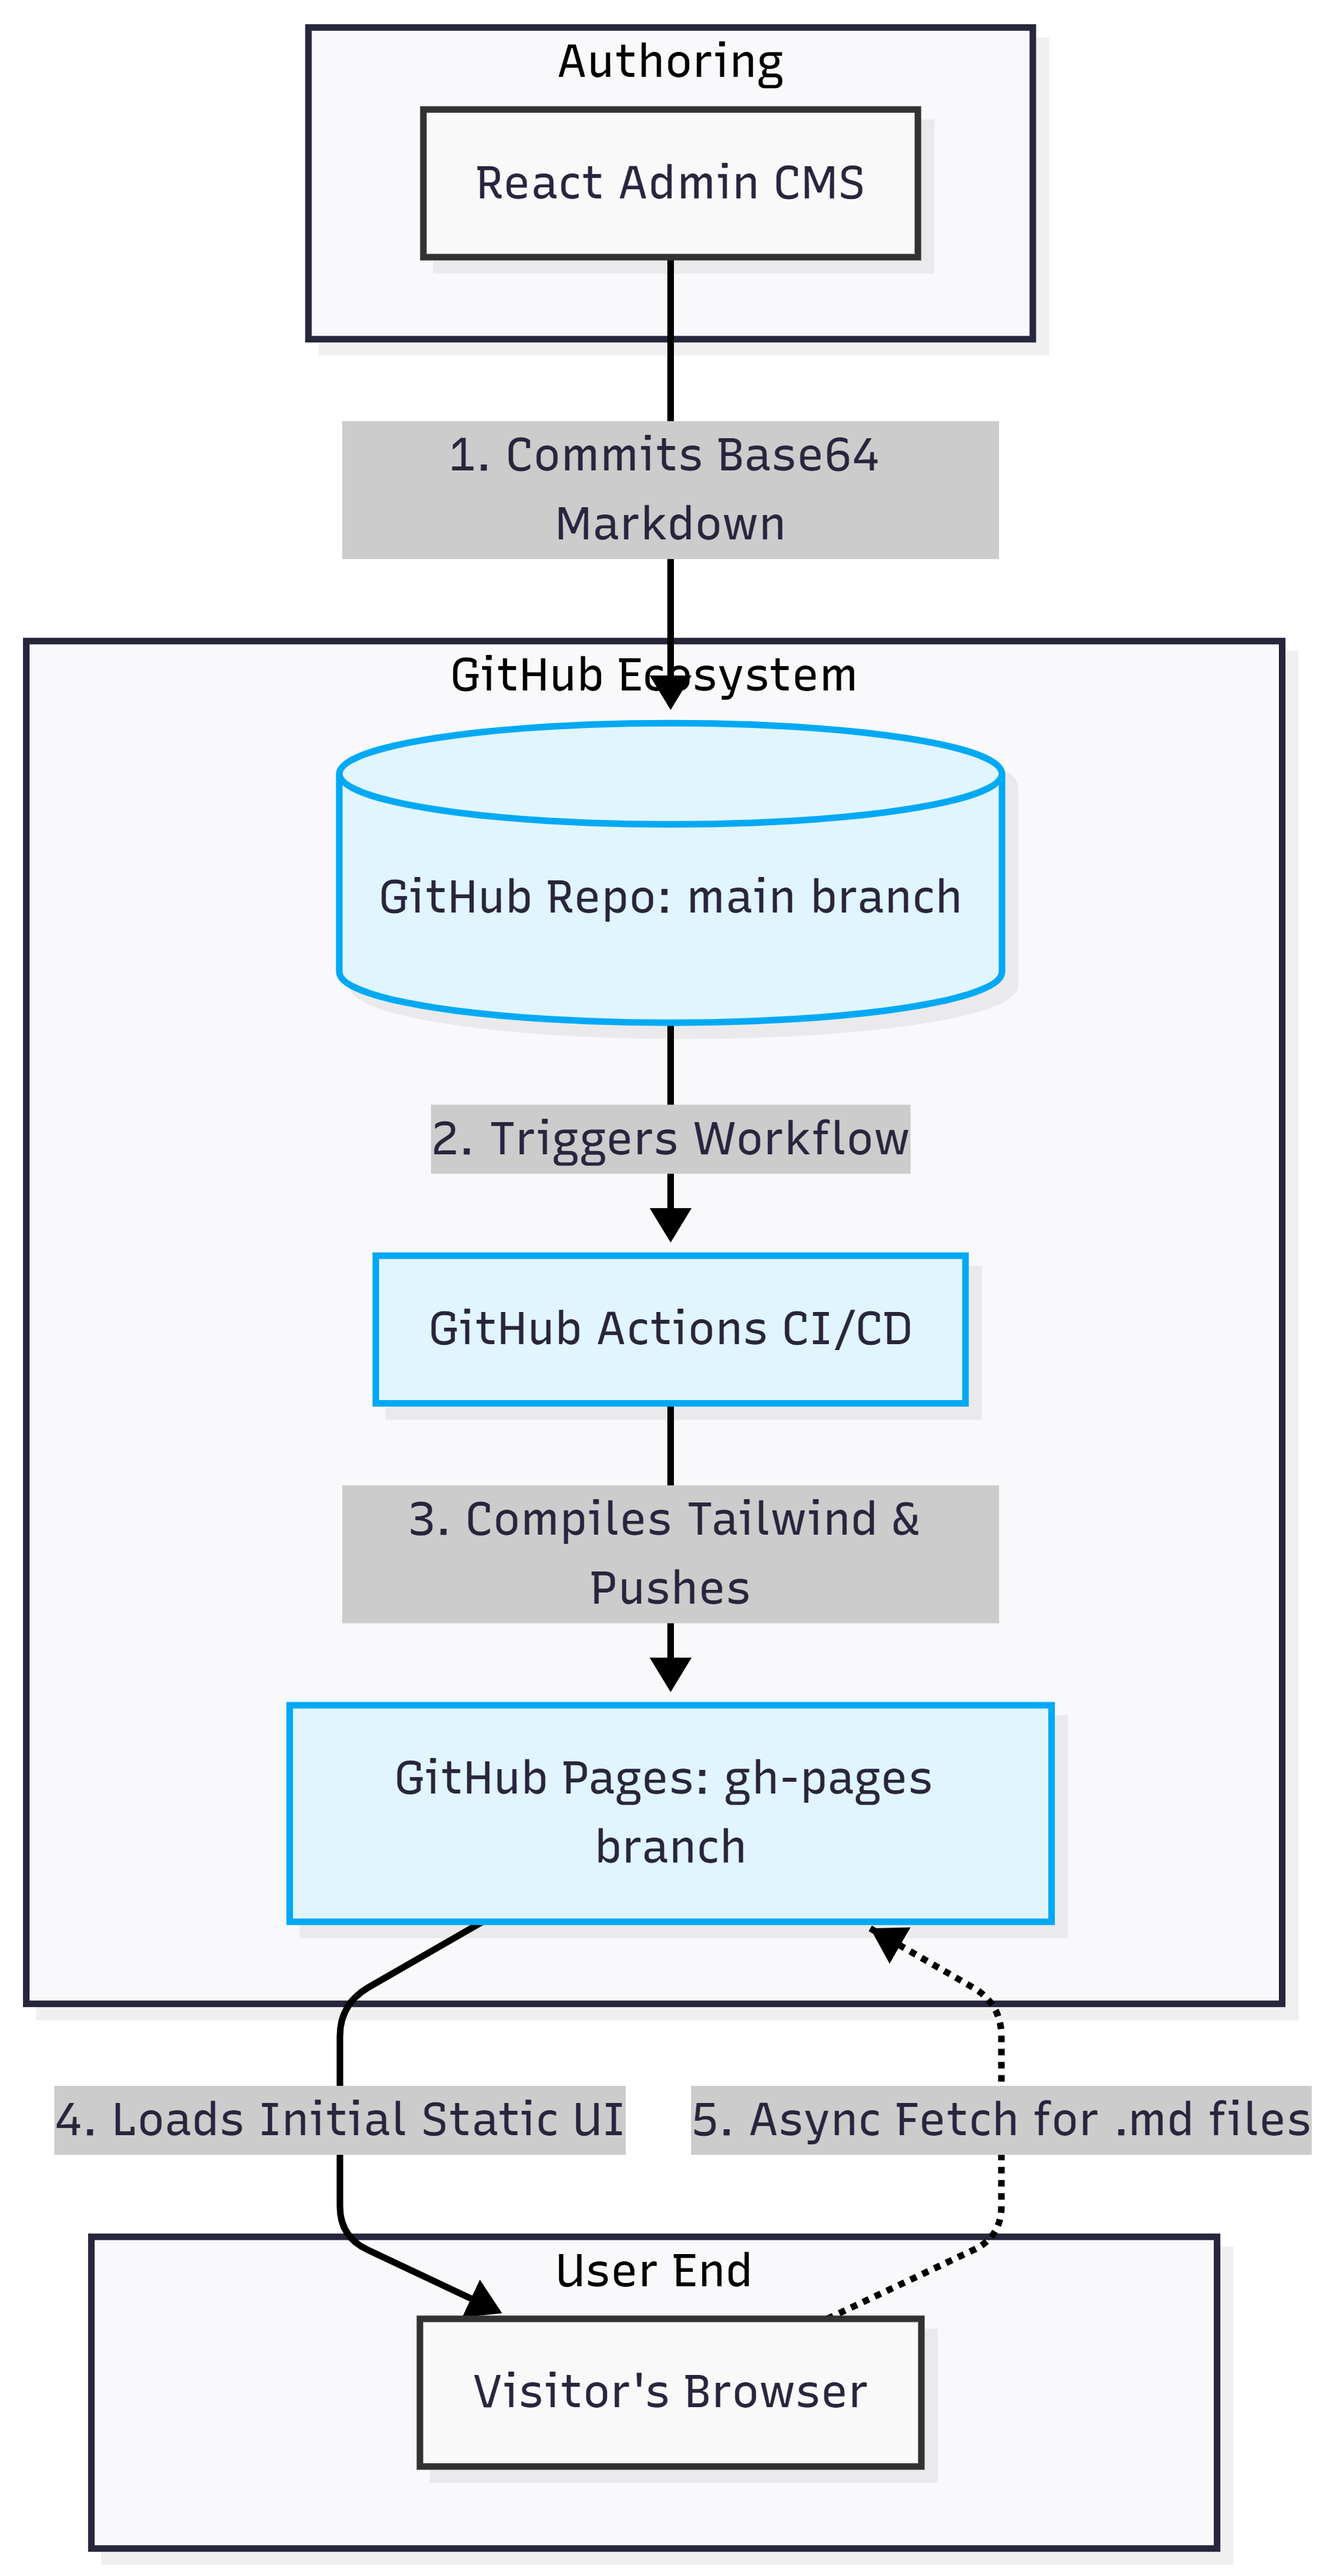
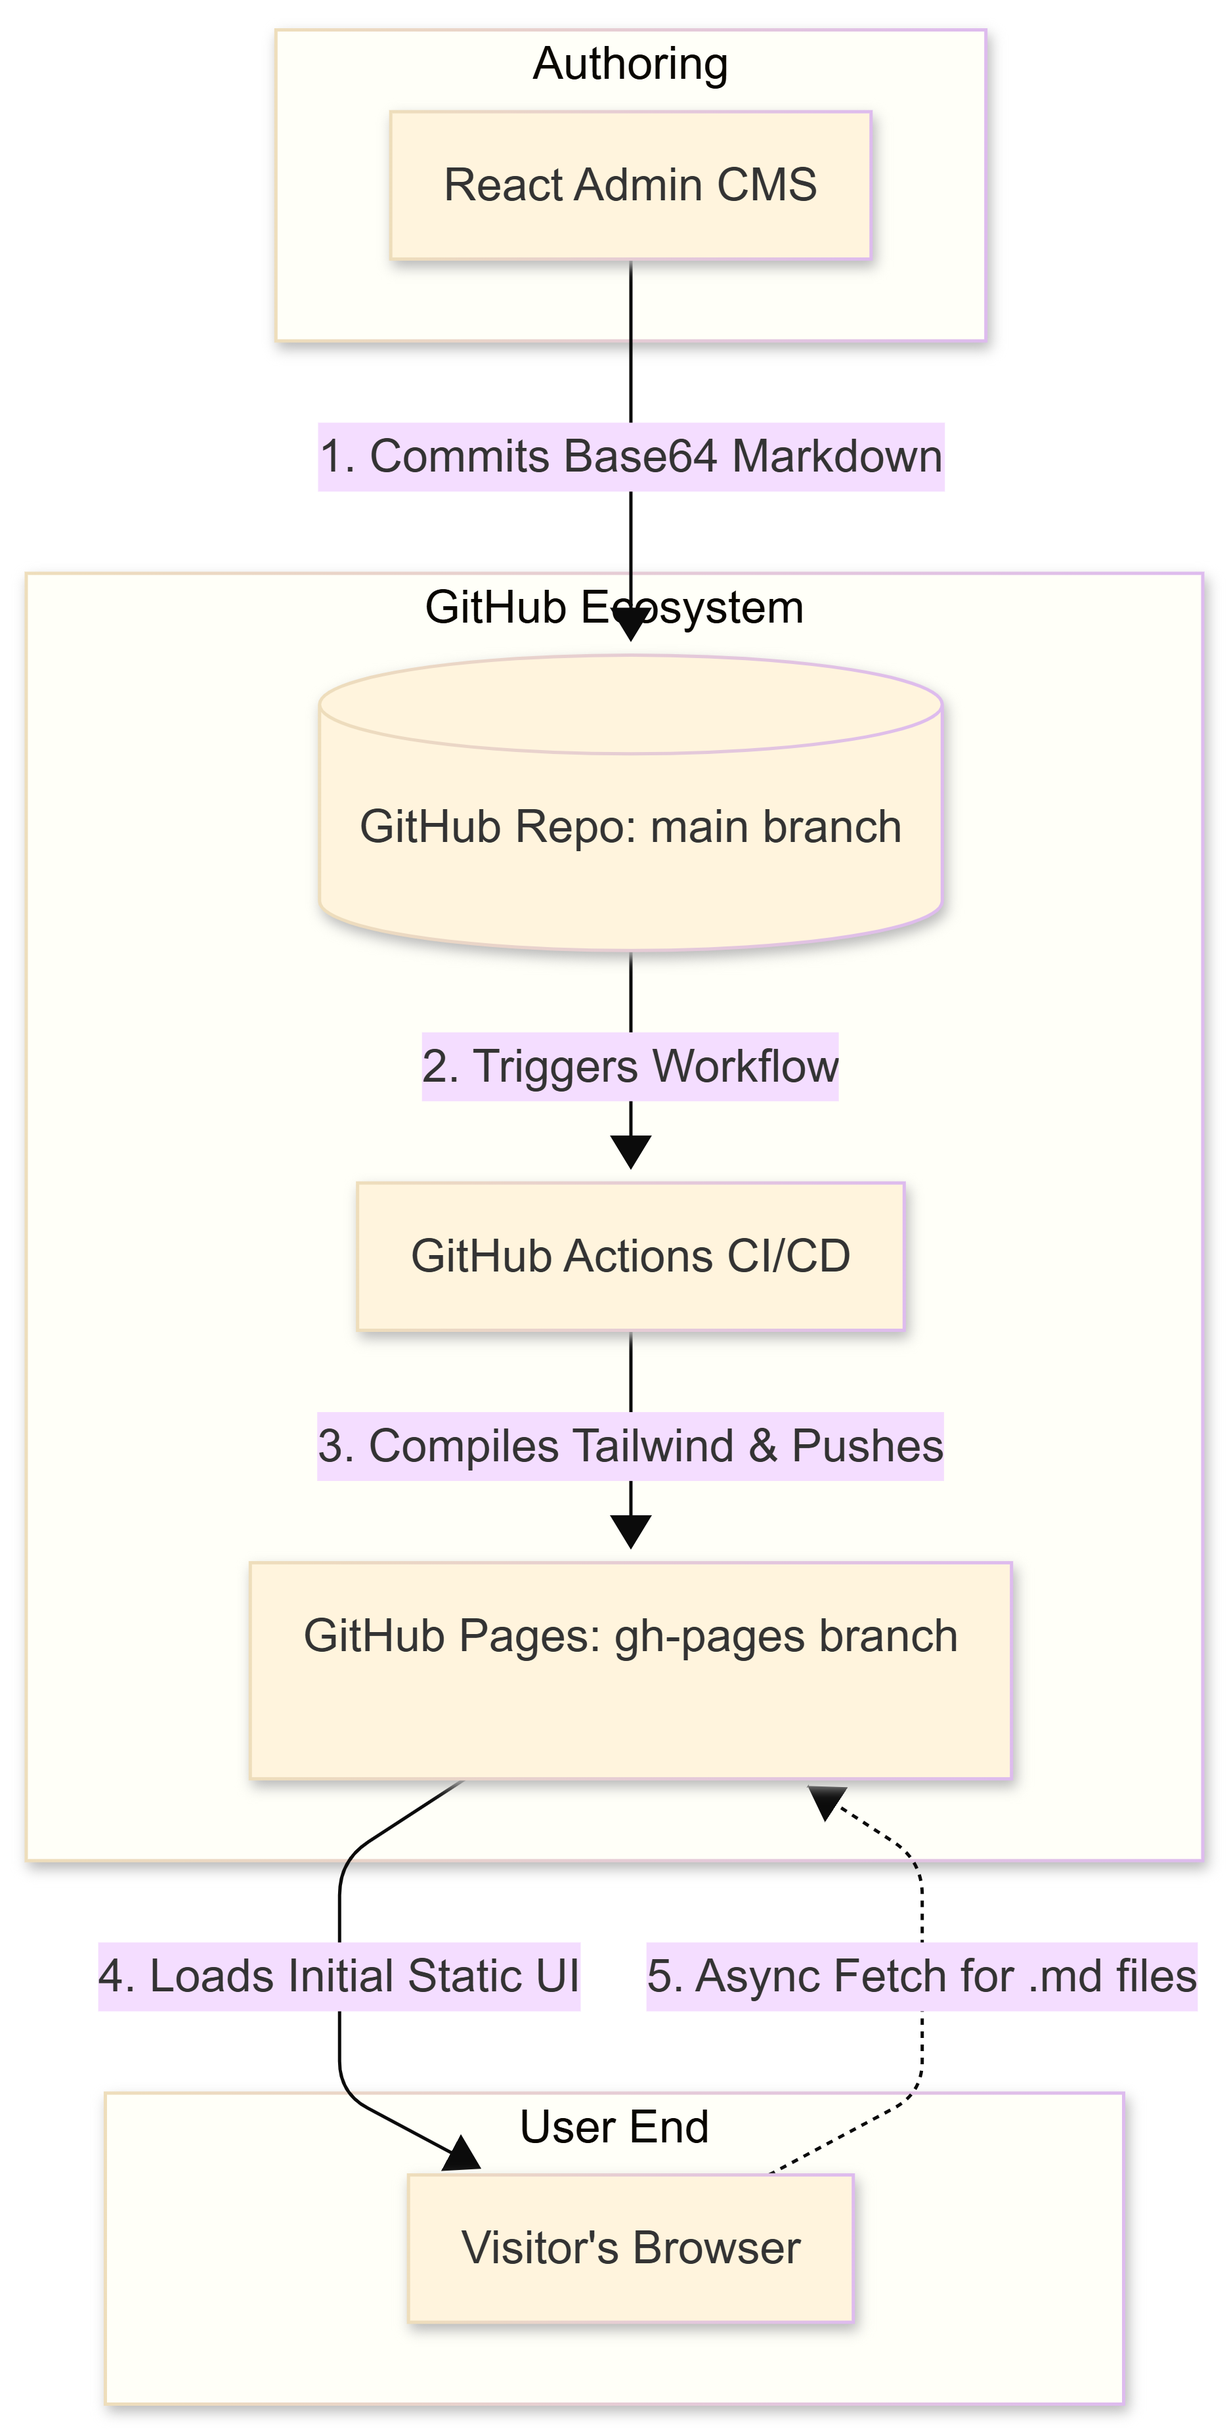
new updated

diff --git a/portfolio_blogs-21-meta-engineering.md b/portfolio_blogs-21-meta-engineering.md
@@ -34,17 +34,13 @@ If you paste an image into a dummy GitHub Issue, GitHub uploads it to their own 
 
 But as an engineer, this felt wrong. It is an exploit, not an architecture. Relying on an undocumented loophole is a severe DevOps anti-pattern. Eventually, GitHub is going to fix this, patch the exploit, or periodically clear out orphaned assets from Issues. If that happens, every single image on my portfolio would instantly break. I needed a legitimate, stable external storage solution.
 
-## Failure 4: The Google Drive Hotlink Block
+## Failure 4: The Google Drive Scroll Trap
 
-I pivoted to Google Drive. It was free, decoupled from my code, and legitimate. I uploaded my assets and generated direct download links using the `uc?export=view` format. 
+I pivoted to Google Drive. It was free, completely decoupled from my code, and legitimate. Because Google blocks hotlinking for standard Markdown images, I generated embed links and injected raw HTML `<iframe>` tags into my posts.
 
-But Google aggressively blocks hotlinking to prevent people from using Drive as a free Content Delivery Network. The browser threw CORS (Cross-Origin Resource Sharing) and permission errors. 
+But this created a terrible User Experience (UX). Because the iframe is basically a window to another website, it captured the user's mouse wheel. If a user was scrolling down the blog post and their cursor happened to cross the image, the blog would stop scrolling, and the Google Drive iframe would intercept the scroll to zoom into the image. The user had to consciously move their mouse out of the image box just to continue reading.
 
-**The Final Solution:** I had to pivot to an iframe embed architecture. Instead of standard Markdown image tags, I injected raw HTML into the Markdown using Google's official `/preview` endpoint, wrapped in Tailwind classes for responsiveness:
-```html
-<iframe src="[https://drive.google.com/file/d/YOUR_FILE_ID/preview](https://drive.google.com/file/d/YOUR_FILE_ID/preview)" className="w-full aspect-video rounded-xl shadow-lg" allow="autoplay"></iframe>
-```
-This solved everything. It bypassed the hotlink blocks, allowed seamless media streaming, and achieved zero repository bloat without relying on fragile exploits.
+**The Final Solution:** I ditched Google Drive entirely. I created a secondary, dedicated GitHub repository called `portfoliodata` specifically to act as a media CDN. By uploading images there and using the `raw.githubusercontent.com` URLs, I get clean, standard Markdown images that render perfectly, don't trap the scroll wheel, and keep my main codebase completely free of media bloat.
 
 ## Failure 5: The URL Slug Nightmare
 
@@ -58,4 +54,4 @@ URL parsers hate colons, nested quotation marks, and special characters. My auto
 
 You rarely get the architecture right on the very first commit. Building this custom GitOps CMS forced me to confront edge cases in build tools, browser caching, and REST API limitations. 
 
-The final product is my portfolio costing me nothing to keep it up and can later be easily deployed on the actual devops/cloud infrastructure very easily which we call migration and upgrad
+The final product isn't just a portfolio—it is a battle-tested infrastructure.

diff --git a/portfolio_blogs-6-interactive-ui.md b/portfolio_blogs-6-interactive-ui.md
@@ -16,7 +16,7 @@ In a framework like React, this is a trivial state management task. But in our [
 
 Instead of writing repetitive code for every single card, I treated the UI components like modular infrastructure. I wrote a single, reusable JavaScript function that dynamically targets data attributes (`data-target`) on the HTML elements to toggle the hidden classes we generated with Tailwind in [Blog 5](#/blog/portfolio-blog-5-taming-tailwind).
 
-<iframe src="https://drive.google.com/file/d/YOUR_FILE_ID/preview" className="w-full aspect-video rounded-xl shadow-lg my-4" allow="autoplay"></iframe>
+![Expandable Project Cards Demo](https://raw.githubusercontent.com/itspuru21/portfoliodata/main/images/YOUR_GIF_NAME.gif)
 *(Video: Demonstrating the lightweight, vanilla JS expandable project cards.)*
 
 ## Modularity Over Complexity

diff --git a/portfolio_blogs-8-client-side-search.md b/portfolio_blogs-8-client-side-search.md
@@ -31,7 +31,7 @@ Instead of making new network requests every time a user clicks a category tag, 
 
 When a user clicks the "Terraform" tag, the script executes an `Array.prototype.filter()` operation against our `blogData` array. It instantly creates a new array containing only the Terraform posts, clears the current blog list container, and re-injects only the matching HTML components.
 
-<iframe src="https://drive.google.com/file/d/YOUR_FILE_ID/preview" className="w-full aspect-video rounded-xl shadow-lg my-4" allow="autoplay"></iframe>
+![Client-Side Search Demo](https://raw.githubusercontent.com/itspuru21/portfoliodata/main/images/YOUR_GIF_NAME.gif)
 *(Video: Instantaneous, zero-latency filtering achieved through pure client-side processing.)*
 
 ## Engineering Benefits

diff --git a/portfolio_blogs-12-state-and-syncing.md b/portfolio_blogs-12-state-and-syncing.md
@@ -24,7 +24,7 @@ I updated the CMS logic so that immediately after a successful `PUT` request, it
 
 Only when the API returns a `status: "completed"` and `conclusion: "success"` does the CMS UI flash a green success message and allow me to navigate to the live site. 
 
-<iframe src="https://drive.google.com/file/d/YOUR_FILE_ID/preview" className="w-full aspect-video rounded-xl shadow-lg my-4" allow="autoplay"></iframe>
+![Polling GitHub Actions Demo](https://raw.githubusercontent.com/itspuru21/portfoliodata/main/images/YOUR_GIF_NAME.gif)
 *(Video: The React CMS polling the GitHub Actions API to track deployment state.)*
 
 ## The Browser Cache Invalidation
